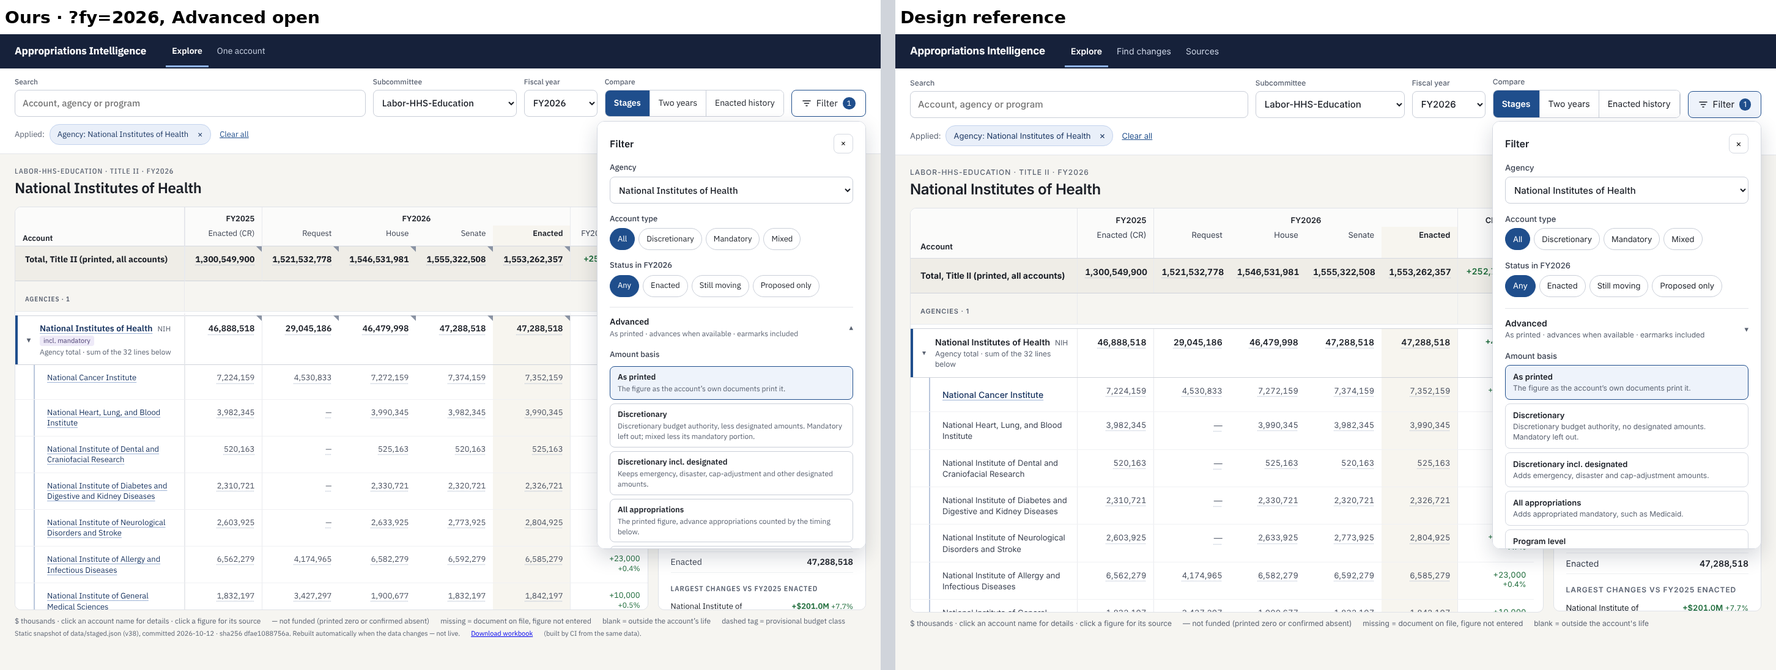
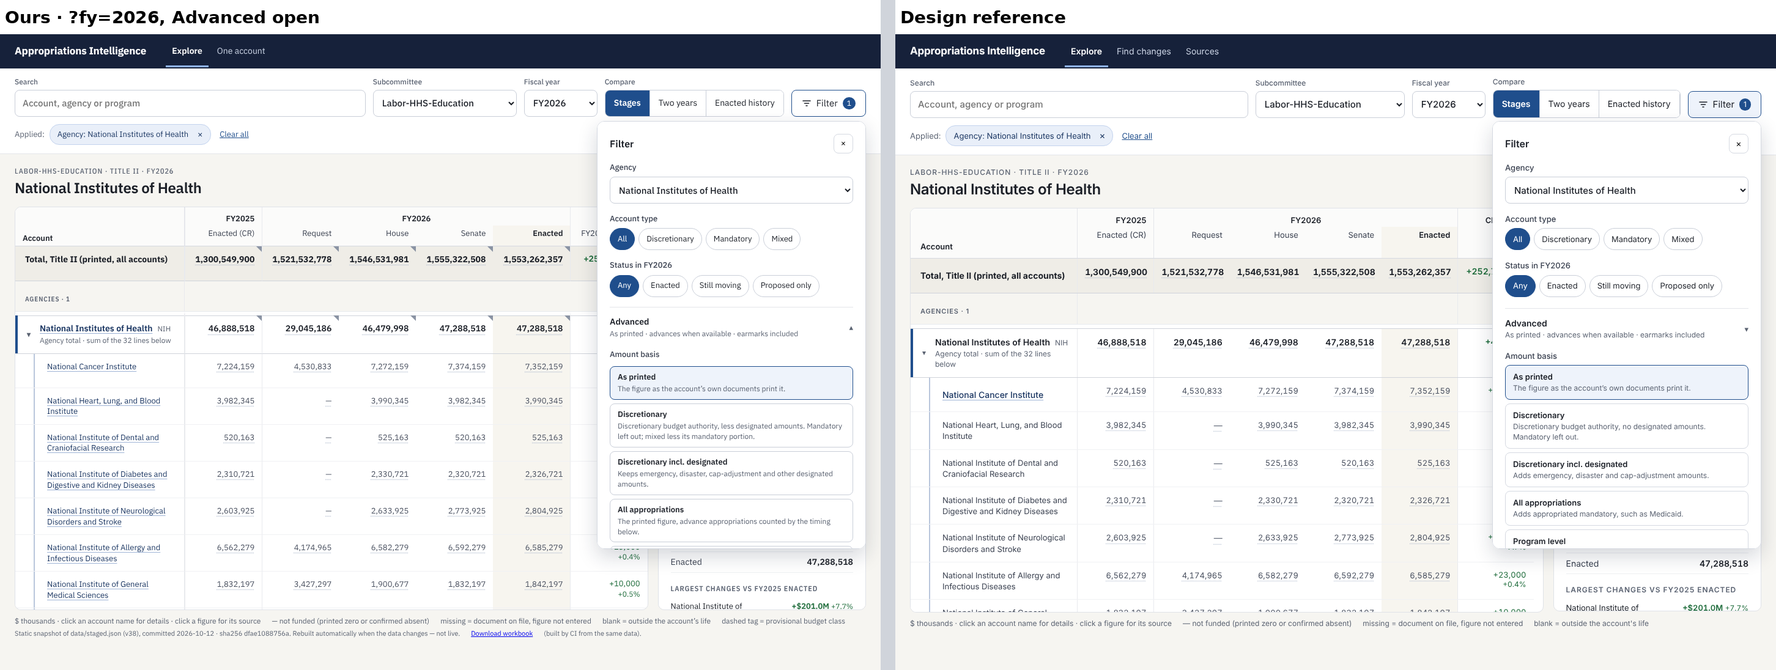
UI-3 owner answers (#61): incl. mandatory rule, earmark/nondefense flags, SPEC records
- "incl. mandatory": a mandatory line, or a mixed line with a tagged
  mandatory_portion; an agency holding one (FY2026: HRSA, CDC, CMS, ACF, OS).
  The hover names each line and its mandatory amount. Test added.
- exclude_earmarks and nondefense: new flags in web/ui_contract.json
  (contract_version 3), false until UI-0b publishes their data; nothing built.
  Test 12 forces them false.
- SPEC.md §4, §5.6, §8 record the adopted departures.

Claude-Session: https://claude.ai/code/session_01NsbQjczQk4e3AyJxBZrZVr

diff --git a/docs/index.html b/docs/index.html
@@ -842,6 +842,7 @@ let open = new Set();           // expanded rows: agency totals by account id, g
 // publishes what it reads (docs/data/index.json "features", or the live /api/features)
 const BUILT = new Set(["grid", "search_filter", "overview_panel", "interaction_state", "abbreviations", "figure_source", "account_panel",
                         "accounting_views", "budget_class", "defense_split"]);
+// exclude_earmarks and nondefense (web/ui_contract.json) wait for their data (UI-0b): not built, so never shown
 let FEAT = {};
 const has = (name) => BUILT.has(name) && FEAT[name] === true;
 // a figure is a button that opens its source in the side panel (SPEC 5.1) when the figure_source fields are published
@@ -1237,6 +1238,24 @@ function classOf(row, y) {
            where: `${docName(c.source_document_id)}${c.source_page ? ", p. " + c.source_page : ""}` };
 }
 const classTitle = (k, y) => `Budget class ${k.cls}${k.provisional ? " (provisional)" : ""}, FY${y}, ${k.basis} basis · ${k.where}`;
+// what makes a line "incl. mandatory" (owner, 2026-10-12, #61): its class for the year is mandatory, or mixed with a
+// mandatory_portion component tagged on its figure at the stage the grid leads with. A mixed account with none tagged
+// counts as discretionary (ACCOUNTING_RULES) and gets no tag. The text names the line and its mandatory amount: the
+// whole printed figure of a mandatory account, or each tagged mandatory portion (listed, never added)
+const tagStage = (grid) => STAGES4[G.grid === "years" ? G.basis : G.grid === "history" ? 3 : (leadStage(grid, G.fy) ?? 3)];
+function mandatoryOf(row, y) {
+  const k = classOf(row, y);
+  if (!k || !current) return null;
+  const st = tagStage(current.grid), name = plainName(row.account.canonical_name);
+  if (k.cls === "mandatory") {
+    const p = printedFig(row, y, st);
+    return { k, text: `${name}: mandatory${p != null ? " " + GridMath.number(p, G.units) : ""} (the whole figure; budget class mandatory)` };
+  }
+  if (k.cls !== "mixed") return null;
+  const x = headOf(row, y, st);
+  const parts = ((x && !x.cell.outside_life && x.cell.components) || []).filter((c) => c.type === "mandatory_portion");
+  return parts.length ? { k, text: `${name}: mandatory portion ${parts.map((c) => GridMath.number(c.amount, G.units)).join(", ")}` } : null;
+}
 const lineClass = (m, y) => classOf(m.account.parent_account_id && ROW_OF.get(m.account.parent_account_id) || m, y);
 const STATUS = [["any", "Any"], ["enacted", "Enacted"], ["moving", "Still moving"], ["proposed", "Proposed only"]];
 // a row's status in a fiscal year, read from its own cell states and lifecycle (never computed from figures)
@@ -1329,9 +1348,10 @@ function accountRow(r, cols, cls, lvl, inMandatory) {
   if (k) {
     // a provisional class: the tag has a dashed outline, and its title says so
     const t = { cls: "cls" + (k.provisional ? " prov" : ""), testid: "class-tag", title: classTitle(k, y), prov: k.provisional };
-    if (k.cls === "mixed") tags.push({ ...t, text: "incl. mandatory" });
-    else if (k.cls === "mandatory" && !inMandatory) tags.push({ ...t, text: "mandatory" });
-    else if (k.cls === "mandatory" && k.provisional) tags.push({ ...t, text: "provisional" });
+    const mi = k.cls === "mixed" ? mandatoryOf(r, y) : null;
+    if (mi) tags.push({ ...t, text: "incl. mandatory", title: `${mi.text} · ${t.title}` });
+    else if (k.cls === "mandatory" && !inMandatory) tags.push({ ...t, text: "mandatory", title: `${mandatoryOf(r, y).text} · ${t.title}` });
+    else if (k.cls === "mandatory" && k.provisional) tags.push({ ...t, text: "provisional", title: `${mandatoryOf(r, y).text} · ${t.title}` });
   }
   return el("tr", { class: cls, dataset: { account: id, testid: "compare-row", ...(r.member_of ? { memberOf: r.member_of } : {}) } },
     nameCell({ id, name, title: accountTitle(r), lvl, tags, move: moveLine(r), abbr: cls.includes("top") ? abbrOf(id) : "" }),
@@ -1404,9 +1424,9 @@ function buildRows(grid, cols) {
       const auto = F.filtering && !F.ok(r) && members.length > 0;          // shown for a line that matches: opened
       const isOpen = all.length > 0 && (open.has(id) || auto);
       // "incl. mandatory": the agency's lines in view include a mandatory or mixed account (their own budget_class)
-      const withMand = all.filter((m) => F.inView(m) && ["mandatory", "mixed"].includes((classOf(m, y) || {}).cls));
+      const withMand = all.filter((m) => F.inView(m)).map((m) => mandatoryOf(m, y)).filter(Boolean);
       const tags = withMand.length ? [{ cls: "cls", testid: "class-tag", text: "incl. mandatory",
-        title: "Lines with mandatory budget authority: " + withMand.map((m) => `${plainName(m.account.canonical_name)} (${classTitle(classOf(m, y), y)})`).join("; ") }] : [];
+        title: withMand.map((x) => x.text).join("; ") }] : [];
       out.push(el("tr", { class: "agency top" + (isOpen ? " open" : ""), dataset: { account: id, testid: "compare-row" } },
         nameCell({ id, key: id, name, title: accountTitle(r), abbr, chev: all.length > 0, spacer: !all.length, open: isOpen, tags,
                    note: isOpen ? (n ? `Agency total · sum of the ${n} line${n === 1 ? "" : "s"} below` : "Agency total") : "",
@@ -2194,7 +2214,7 @@ function renderFilterPanel(grid) {
     const done = el("button", { type: "button", class: "xbtn primary", "data-testid": "filter-done", "data-key": "done", text: "Done" });
     done.addEventListener("click", () => closeMenu(true));
     // Advanced: Amount basis and advance timing (accounting_views), then the items no flag gates (SPEC section 9).
-    // Exclude earmarks stays out: no published view leaves earmarks out (brief UI-3; the page never computes a view)
+    // Exclude earmarks waits for its own flag, exclude_earmarks (UI-0b publishes the view; the page never computes one)
     const check = (id, label, checked, set, extra = {}) => {
       const c = el("input", { type: "checkbox", id, "data-key": id, ...extra });
       c.checked = checked;
@@ -2286,7 +2306,7 @@ function renderViewMenu(grid) {
       colChecks.push(check("col-req", lead === 3 ? `Change vs FY${G.fy} request` : `Request vs FY${G.fy - 1} enacted`, G.reqcol, (v) => { G.reqcol = v; },
                            { "data-testid": "col-request" }));
     if (lead != null && has("defense_split"))
-      colChecks.push(check("col-def", "Defense / nondefense (defense portion)", G.defcol, (v) => { G.defcol = v; }, { "data-testid": "col-defense" }));
+      colChecks.push(check("col-def", "Defense portion", G.defcol, (v) => { G.defcol = v; }, { "data-testid": "col-defense" }));
     if (colChecks.length) kids.push(el("div", { class: "glabel", text: "Columns" }), ...colChecks);
     if (G.grid === "years") {
       const checks = el("div", { "data-testid": "stage-checks" }, ...STAGE_NAME.map((n, i) =>

diff --git a/web/index.html b/web/index.html
@@ -841,6 +841,7 @@ let open = new Set();           // expanded rows: agency totals by account id, g
 // publishes what it reads (docs/data/index.json "features", or the live /api/features)
 const BUILT = new Set(["grid", "search_filter", "overview_panel", "interaction_state", "abbreviations", "figure_source", "account_panel",
                         "accounting_views", "budget_class", "defense_split"]);
+// exclude_earmarks and nondefense (web/ui_contract.json) wait for their data (UI-0b): not built, so never shown
 let FEAT = {};
 const has = (name) => BUILT.has(name) && FEAT[name] === true;
 // a figure is a button that opens its source in the side panel (SPEC 5.1) when the figure_source fields are published
@@ -1236,6 +1237,24 @@ function classOf(row, y) {
            where: `${docName(c.source_document_id)}${c.source_page ? ", p. " + c.source_page : ""}` };
 }
 const classTitle = (k, y) => `Budget class ${k.cls}${k.provisional ? " (provisional)" : ""}, FY${y}, ${k.basis} basis · ${k.where}`;
+// what makes a line "incl. mandatory" (owner, 2026-10-12, #61): its class for the year is mandatory, or mixed with a
+// mandatory_portion component tagged on its figure at the stage the grid leads with. A mixed account with none tagged
+// counts as discretionary (ACCOUNTING_RULES) and gets no tag. The text names the line and its mandatory amount: the
+// whole printed figure of a mandatory account, or each tagged mandatory portion (listed, never added)
+const tagStage = (grid) => STAGES4[G.grid === "years" ? G.basis : G.grid === "history" ? 3 : (leadStage(grid, G.fy) ?? 3)];
+function mandatoryOf(row, y) {
+  const k = classOf(row, y);
+  if (!k || !current) return null;
+  const st = tagStage(current.grid), name = plainName(row.account.canonical_name);
+  if (k.cls === "mandatory") {
+    const p = printedFig(row, y, st);
+    return { k, text: `${name}: mandatory${p != null ? " " + GridMath.number(p, G.units) : ""} (the whole figure; budget class mandatory)` };
+  }
+  if (k.cls !== "mixed") return null;
+  const x = headOf(row, y, st);
+  const parts = ((x && !x.cell.outside_life && x.cell.components) || []).filter((c) => c.type === "mandatory_portion");
+  return parts.length ? { k, text: `${name}: mandatory portion ${parts.map((c) => GridMath.number(c.amount, G.units)).join(", ")}` } : null;
+}
 const lineClass = (m, y) => classOf(m.account.parent_account_id && ROW_OF.get(m.account.parent_account_id) || m, y);
 const STATUS = [["any", "Any"], ["enacted", "Enacted"], ["moving", "Still moving"], ["proposed", "Proposed only"]];
 // a row's status in a fiscal year, read from its own cell states and lifecycle (never computed from figures)
@@ -1328,9 +1347,10 @@ function accountRow(r, cols, cls, lvl, inMandatory) {
   if (k) {
     // a provisional class: the tag has a dashed outline, and its title says so
     const t = { cls: "cls" + (k.provisional ? " prov" : ""), testid: "class-tag", title: classTitle(k, y), prov: k.provisional };
-    if (k.cls === "mixed") tags.push({ ...t, text: "incl. mandatory" });
-    else if (k.cls === "mandatory" && !inMandatory) tags.push({ ...t, text: "mandatory" });
-    else if (k.cls === "mandatory" && k.provisional) tags.push({ ...t, text: "provisional" });
+    const mi = k.cls === "mixed" ? mandatoryOf(r, y) : null;
+    if (mi) tags.push({ ...t, text: "incl. mandatory", title: `${mi.text} · ${t.title}` });
+    else if (k.cls === "mandatory" && !inMandatory) tags.push({ ...t, text: "mandatory", title: `${mandatoryOf(r, y).text} · ${t.title}` });
+    else if (k.cls === "mandatory" && k.provisional) tags.push({ ...t, text: "provisional", title: `${mandatoryOf(r, y).text} · ${t.title}` });
   }
   return el("tr", { class: cls, dataset: { account: id, testid: "compare-row", ...(r.member_of ? { memberOf: r.member_of } : {}) } },
     nameCell({ id, name, title: accountTitle(r), lvl, tags, move: moveLine(r), abbr: cls.includes("top") ? abbrOf(id) : "" }),
@@ -1403,9 +1423,9 @@ function buildRows(grid, cols) {
       const auto = F.filtering && !F.ok(r) && members.length > 0;          // shown for a line that matches: opened
       const isOpen = all.length > 0 && (open.has(id) || auto);
       // "incl. mandatory": the agency's lines in view include a mandatory or mixed account (their own budget_class)
-      const withMand = all.filter((m) => F.inView(m) && ["mandatory", "mixed"].includes((classOf(m, y) || {}).cls));
+      const withMand = all.filter((m) => F.inView(m)).map((m) => mandatoryOf(m, y)).filter(Boolean);
       const tags = withMand.length ? [{ cls: "cls", testid: "class-tag", text: "incl. mandatory",
-        title: "Lines with mandatory budget authority: " + withMand.map((m) => `${plainName(m.account.canonical_name)} (${classTitle(classOf(m, y), y)})`).join("; ") }] : [];
+        title: withMand.map((x) => x.text).join("; ") }] : [];
       out.push(el("tr", { class: "agency top" + (isOpen ? " open" : ""), dataset: { account: id, testid: "compare-row" } },
         nameCell({ id, key: id, name, title: accountTitle(r), abbr, chev: all.length > 0, spacer: !all.length, open: isOpen, tags,
                    note: isOpen ? (n ? `Agency total · sum of the ${n} line${n === 1 ? "" : "s"} below` : "Agency total") : "",
@@ -2193,7 +2213,7 @@ function renderFilterPanel(grid) {
     const done = el("button", { type: "button", class: "xbtn primary", "data-testid": "filter-done", "data-key": "done", text: "Done" });
     done.addEventListener("click", () => closeMenu(true));
     // Advanced: Amount basis and advance timing (accounting_views), then the items no flag gates (SPEC section 9).
-    // Exclude earmarks stays out: no published view leaves earmarks out (brief UI-3; the page never computes a view)
+    // Exclude earmarks waits for its own flag, exclude_earmarks (UI-0b publishes the view; the page never computes one)
     const check = (id, label, checked, set, extra = {}) => {
       const c = el("input", { type: "checkbox", id, "data-key": id, ...extra });
       c.checked = checked;
@@ -2285,7 +2305,7 @@ function renderViewMenu(grid) {
       colChecks.push(check("col-req", lead === 3 ? `Change vs FY${G.fy} request` : `Request vs FY${G.fy - 1} enacted`, G.reqcol, (v) => { G.reqcol = v; },
                            { "data-testid": "col-request" }));
     if (lead != null && has("defense_split"))
-      colChecks.push(check("col-def", "Defense / nondefense (defense portion)", G.defcol, (v) => { G.defcol = v; }, { "data-testid": "col-defense" }));
+      colChecks.push(check("col-def", "Defense portion", G.defcol, (v) => { G.defcol = v; }, { "data-testid": "col-defense" }));
     if (colChecks.length) kids.push(el("div", { class: "glabel", text: "Columns" }), ...colChecks);
     if (G.grid === "years") {
       const checks = el("div", { "data-testid": "stage-checks" }, ...STAGE_NAME.map((n, i) =>

diff --git a/tests/test_compare.py b/tests/test_compare.py
@@ -1583,15 +1583,16 @@ class ExploreV1(GridBrowser):
         self.page.click("[data-testid=clear-all]")
         self.assertTrue(self.page.is_hidden("[data-testid=chips]"))
         self.assertEqual(self.page.inner_text("tr.title [data-testid=total]"), "Total, Title II (printed)")
-        # Advanced shows its ungated items; Account type and the basis items are not built here (UI-3)
+        # Advanced shows its ungated items, and (UI-3, flags on) Account type and the basis items; Exclude earmarks
+        # waits for its own flag (exclude_earmarks, false until UI-0b)
         self.page.click("#filter-btn")
         self.page.click("#f-adv")
         text = self.page.inner_text("#filter-panel")
         for word in ("Advanced", "Change of at least (%)", "or at least ($K)", "Include committee drafts",
-                     "Show ended and reorganized accounts", "Only figures pending review or flagged"):
+                     "Show ended and reorganized accounts", "Only figures pending review or flagged",
+                     "Account type", "Amount basis", "Advance appropriations count"):
             self.assertIn(word, text)
-        for word in ("Account type", "Amount basis", "Advance appropriations count", "Exclude earmarks"):
-            self.assertNotIn(word, text)
+        self.assertNotIn("Exclude earmarks", text)
 
     def test_search_keeps_ancestors(self):
         self.go("?sc=LHHS&fy=2026")
@@ -1992,11 +1993,11 @@ class ExploreV1(GridBrowser):
         # /api/features), none of their controls exist; with the flags as published (on since UI-0), UI-3's do
         def off(route):
             body = json.loads(route.fetch().text())
-            for flag in ("accounting_views", "budget_class", "defense_split"):
+            for flag in ("accounting_views", "budget_class", "defense_split", "exclude_earmarks", "nondefense"):
                 body["features"][flag] = False
             route.fulfill(json=body)
         words = ("amount basis", "account type", "advance appropriations count", "defense", "incl. mandatory",
-                 "appropriated mandatory", "earmark")
+                 "appropriated mandatory", "earmark", "nondefense")
         for where, pattern in (("static", "**/data/index.json"), ("live", "**/api/features")):
             for flagged_off in (True, False):
                 if flagged_off:
@@ -2013,6 +2014,9 @@ class ExploreV1(GridBrowser):
                         self.assertNotIn(word, html, (where, word))
                     elif word in ("amount basis", "account type", "advance appropriations count", "defense", "incl. mandatory"):
                         self.assertIn(word, html, (where, word))
+                # exclude_earmarks and nondefense are false until UI-0b publishes their data: no control either way
+                for word in ("exclude earmarks", "nondefense"):
+                    self.assertNotIn(word, html, (where, flagged_off, word))
                 if flagged_off:
                     self.page.unroute(pattern)
         # the page reads the flags in both modes: a flag turned off hides its feature
@@ -2364,12 +2368,25 @@ class AmountBasis(GridBrowser):
     def test_account_type_and_class_tags(self):
         self.go("?sc=LHHS&fy=2026&open=ACC-HHS-CMS-TOTAL")
         attrs = lambda aid: self.lrow(aid)["attributes"]["2026"]
-        # the agency's tag; the mixed line's tag, marked provisional as its record says
-        self.assertEqual(self.page.inner_text("tr[data-account=ACC-HHS-CMS-TOTAL] [data-testid=class-tag]"), "incl. mandatory")
-        tag = self.page.locator(f"tr[data-account={self.PM}] [data-testid=class-tag]")
+        # "incl. mandatory" (owner, #61): a line whose class is mandatory, or mixed with a tagged mandatory_portion; an
+        # agency holding one. FY2026: HRSA, CDC, CMS, ACF and OS. A mixed line with none tagged (CMS Program
+        # Management) counts as discretionary and has no tag
+        tagged = self.page.eval_on_selector_all("tr.agency [data-testid=class-tag]", "ts => ts.map(t => t.closest('tr').dataset.account)")
+        self.assertEqual(sorted(tagged), sorted(f"ACC-HHS-{a}-TOTAL" for a in ("HRSA", "CDC", "CMS", "ACF", "OS")))
+        self.assertIn("Vaccine Injury Compensation Program Trust Fund: mandatory portion 272,062",
+                      self.page.get_attribute("tr[data-account=ACC-HHS-HRSA-TOTAL] [data-testid=class-tag]", "title"))
+        self.assertIn("Grants to States for Medicaid: mandatory 508,148,791",
+                      self.page.get_attribute("tr[data-account=ACC-HHS-CMS-TOTAL] [data-testid=class-tag]", "title"))
+        self.assertEqual(self.page.locator(f"tr[data-account={self.PM}] [data-testid=class-tag]").count(), 0)
+        self.assertEqual(attrs(self.PM)["budget_class"], "mixed")
+        # a mixed line with a portion: its tag names the amount and is marked provisional as its record says
+        self.go("?sc=LHHS&fy=2026&open=ACC-HHS-HRSA-TOTAL")
+        tag = self.page.locator("tr[data-account=ACC-HHS-HRSA-VICTF] [data-testid=class-tag]")
         self.assertEqual(tag.inner_text(), "incl. mandatory")
-        self.assertEqual(tag.get_attribute("data-provisional"), str(attrs(self.PM)["provisional"]).lower())
+        self.assertEqual(tag.get_attribute("data-provisional"), str(attrs("ACC-HHS-HRSA-VICTF")["provisional"]).lower())
+        self.assertIn("mandatory portion 272,062", tag.get_attribute("title"))
         self.assertIn("Budget class mixed", tag.get_attribute("title"))
+        self.go("?sc=LHHS&fy=2026&open=ACC-HHS-CMS-TOTAL")
         # "Appropriated mandatory": CMS's mandatory lines follow the label, after the others
         order = self.page.eval_on_selector_all("#compare-grid tbody tr", "trs => trs.map(t => t.dataset.account || t.dataset.testid)")
         k = order.index("subgroup-mandatory")

diff --git a/reference/ui/explore-v1/SPEC.md b/reference/ui/explore-v1/SPEC.md
@@ -57,6 +57,8 @@ There are no tiles above the grid: the headline figures live in the overview pan
 - The agency row keeps a white background and gains: a 4 px navy bar on the left edge of its name cell, a 1 px rule and 6 px gap above it, bold figures, and the note "Agency total · sum of the N lines below". N is the number of the row's `rollup_members` that are inside their life in the selected fiscal year, which is the number of lines actually listed. For NIH in FY2026 that is 32: the data holds 33 members, and National Institute of Substance Use and Addiction Research is outside its life in FY2026, so it is not listed.
 - Its lines follow, indented, each on a white row with a 2 px rail (`#b9c6dc`) in the name column joining them to the total. Line names are 13 px regular; a name that opens the account panel uses the link style (navy `#16325f`, light underline offset 3 px; owner, 2026-10-12, #59), otherwise `#3a4150`; line figures 13 px regular `#4a5160`. They must look visibly subordinate to the bold total they add up to.
 - Sub-groups inside an agency (e.g. "Proposed in the FY2026 request", "Appropriated mandatory") are small caps labels on the rail. "Appropriated mandatory" depends on `budget_class` (section 9).
+- **Class tags** (`budget_class`; owner, 2026-10-12, #61). A line's class for the year is its enacted-basis record, else its request-basis record (a proposed account). A line whose class is mandatory sits under "Appropriated mandatory" in its agency (a line outside an agency gets a "mandatory" tag). A mixed line gets "incl. mandatory" only when a `mandatory_portion` component is tagged on its figure at the lead stage; a mixed line with none tagged counts as discretionary (ACCOUNTING_RULES) and gets no tag. An agency gets "incl. mandatory" when it holds such a line in view. FY2026 Labor-HHS: HRSA, CDC, CMS, ACF and OS. The hover names each line behind the tag and its mandatory amount, e.g. "Vaccine Injury Compensation Program Trust Fund: mandatory portion 272,062" (a mandatory account: its whole printed figure); portions are listed, never added. A provisional class has a dashed tag outline (a mandatory line under the sub-group gets a "provisional" tag), and the footer legend says "dashed tag = provisional budget class".
+- **Defense portion column** (View › Columns, `defense_split`): the lead stage's `defense_portion` amount where one is tagged, a button to the figure's source; empty where none is tagged (untagged is not zero). Nondefense is a view the data doesn't publish yet; it stays hidden behind the `nondefense` flag (owner, #61).
 
 **Cell states** (from the data; no new ones):
 
@@ -69,6 +71,8 @@ There are no tiles above the grid: the headline figures live in the overview pan
 | `not_collected` / `not_enacted` / `not_reported` | `n/c` / `n/e` / `n/r` small muted | the state's meaning |
 | `no_printed_total` / `no_figure` | `—` muted | the state's meaning |
 | `outside_life` | blank | "Outside the account's life" |
+
+**Under an Amount basis other than As printed** (section 5.6; owner, #61), a cell holding a printed figure shows its published view (`views.<basis>`, the timing's entry): the amount when checked or computed; `excl.` when the basis leaves the account out; `n/a` for an account and `not checked` for a total when not computable. The reason is on hover, each is a button to the figure's source, and a legend line explains the three. Only checked or computed amounts feed a difference. Cells without a printed figure keep their state tokens.
 
 **Emphasis.** The FY2026 Enacted column has a warm wash (`#f7f5ef`) on every row except the total band, and a bold header. The change column shows `±amount` over `±%`: green when up, orange when down, figures only (never the fill).
 
@@ -124,6 +128,12 @@ Hovering a figure cell tints its whole row `#ecf1f9` (including the sticky name 
 ### 5.6 Filter panel (the Filter button)
 A dialog under the button: Agency (select), Account type (All · Discretionary · Mandatory · Mixed), Status in FY<n> (Any · Enacted · Still moving · Proposed only), then an **Advanced** disclosure whose one-line summary reads e.g. "As printed · advances when available · earmarks included". Advanced holds Amount basis (five options with one-line definitions from `reference/ACCOUNTING_RULES.md`), "Advance appropriations count" (When available · When enacted), Change of at least (%) or at least ($K), and checkboxes for Exclude earmarks, Include committee drafts (on by default; draft columns are labelled "(draft)"; owner, 2026-10-12, #58), Show ended and reorganized accounts, and Only figures pending review or flagged. Footer: Reset · Done. Each non-default choice becomes a chip. The badge on the Filter button counts the chips.
 
+Adopted in UI-3 (owner, 2026-10-12, #61):
+- The basis definitions follow `reference/ACCOUNTING_RULES.md` as `accounting.BASES` applies it; Program level adds transfers in and trust-fund limitations only (no fees, no transfers out; owner decision on #57).
+- Exclude earmarks is hidden behind its own flag, `exclude_earmarks` (false until UI-0b publishes a view that leaves earmarks out); the page never computes one.
+- Under a basis other than As printed, the units-and-basis label adds the timing: "$ thousands · all appropriations · advances when available".
+- Under such a basis, the overview shows a total only where the data marks it checked, otherwise "not checked (n accounts)"; the figure-source panel adds the view, the printed headline, each component (type, amount, source) and the arithmetic (the printed figure, the components the view used, "=" the published amount).
+
 ### 5.7 View menu, Share, Export
 - **View**: Units ($ thousands · $ millions), Density (Comfortable · Compact), Columns (Change vs FY2026 request), Expand all / Collapse all, Reviewer mode.
 - **Share**: copies the URL. All state (filters, compare mode, FY, units, density, columns, expanded rows, selected figure) round-trips through the query string, and the button briefly reads "Link copied".
@@ -164,7 +174,7 @@ IBM Plex Sans (self-hosted under `web/`, SIL OFL; fall back to system-ui), base 
 | selected figure | `#fff1c2` + inset `#d9a400` | selection only |
 | selected account row | `#fff6dc` | selection only |
 | rail | `#b9c6dc` | lines under an expanded agency |
-| tag: incl. mandatory | bg `#eeeaf8`, text `#4b3f72` | class tags (UI-0) |
+| tag: incl. mandatory | bg `#eeeaf8`, text `#4b3f72`; provisional class: 1 px dashed outline `#8a7fb0` (owner, #61) | class tags (UI-0) |
 | tag: proposed | bg `#fdf1d8`, text `#7a4b00` | proposed-only accounts |
 | badges | auto-validated `#e3f1e7`/`#1d6b3a`; unverified `#eef0f3`/`#3a4150`; flagged `#fde8dc`/`#9a3412`; human-verified → Verified by a person (green, as auto-validated) | verification status |
 

diff --git a/reference/handoff.md b/reference/handoff.md
@@ -294,11 +294,18 @@ Open items:
   Management, the title total, FY2025 CR; source panel arithmetic; overview totals; Account type and tags; defense
   column; URL round-trip of every option). Test 12 forces the three flags false and checks the controls appear when on.
 
-Open items (owner):
-1. Exclude earmarks is not built: no published view leaves earmarks out, and the page never computes one. Needs e.g.
-   `rows[].cells.*.views_excluding_earmarks.<basis>` (same shape as views) from site_accounting.py.
-2. Nondefense is not shown: it is a view (ACCOUNTING_RULES "nondefense"); needs a published nondefense amount per cell.
-3. Design's Program level definition mentions fees and transfers out; ACCOUNTING_RULES/accounting.py count neither, so
-   the page's definition follows ACCOUNTING_RULES.
-4. "incl. mandatory" shows on HRSA, CDC, NIH and OS too (each holds a mixed line in FY2026); the design shows it on
-   CMS and ACF only.
+Owner answers on #61 (2026-10-12):
+1. Exclude earmarks and nondefense: nothing built; new flags `exclude_earmarks` and `nondefense` in web/ui_contract.json
+   (contract_version 3), false until UI-0b publishes `rows[].cells.*.views_excluding_earmarks.<basis>` and
+   `rows[].cells.*.nondefense` (proposed paths, in the contract's shapes; UI-0b may rename them in the contract).
+   Neither is in `BUILT`; test 12 forces both false and checks no control either way. View › Columns reads
+   "Defense portion".
+2. "incl. mandatory": a line whose class is mandatory, or mixed with a mandatory_portion tagged at the lead stage; an
+   agency holding one. FY2026: HRSA, CDC, CMS, ACF, OS (the mockup's CMS/ACF-only predates the class data). Hover names
+   each line and its mandatory amount (portions listed, never added). Recorded in SPEC §4; test in AmountBasis.
+3. Program level follows ACCOUNTING_RULES (owner decision on #57).
+4. Other departures adopted and recorded in SPEC §4 (basis tokens, class tags, defense column), §5.6 (definitions,
+   Exclude earmarks flag, label timing, overview/source panel under a basis), §8 (provisional dashed outline).
+
+Open: SPEC §9's table still says "hidden until UI-0" for the accounting rows and has no rows for the two new flags
+(the owner's answer named §4/§5.6/§8 only).
